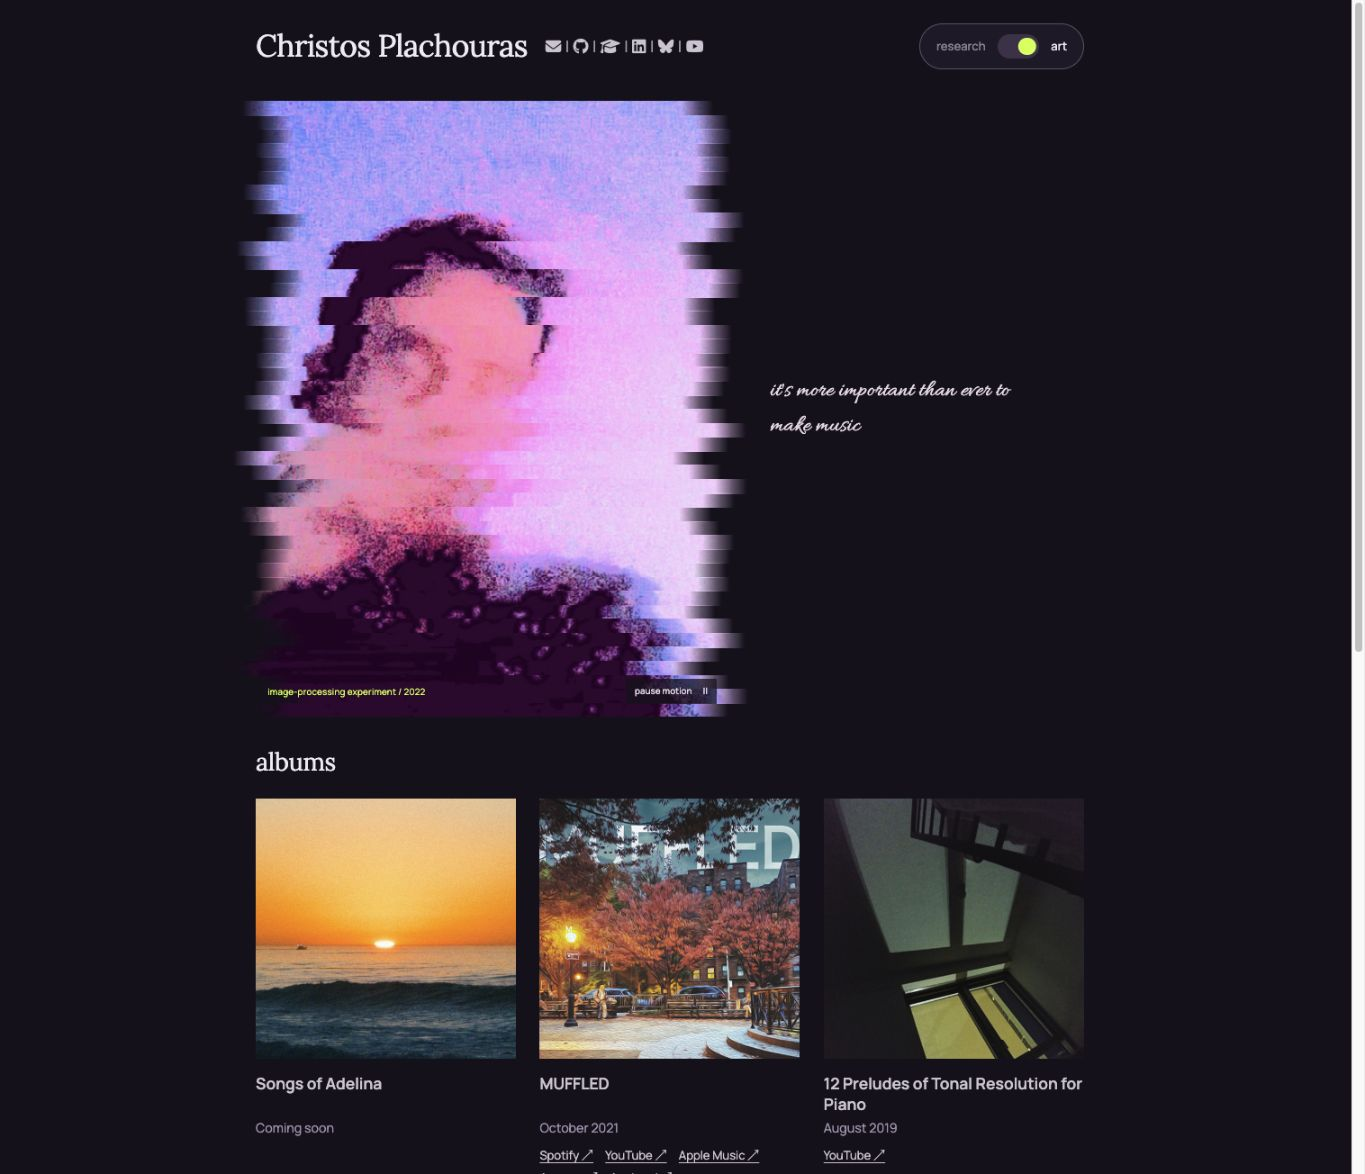
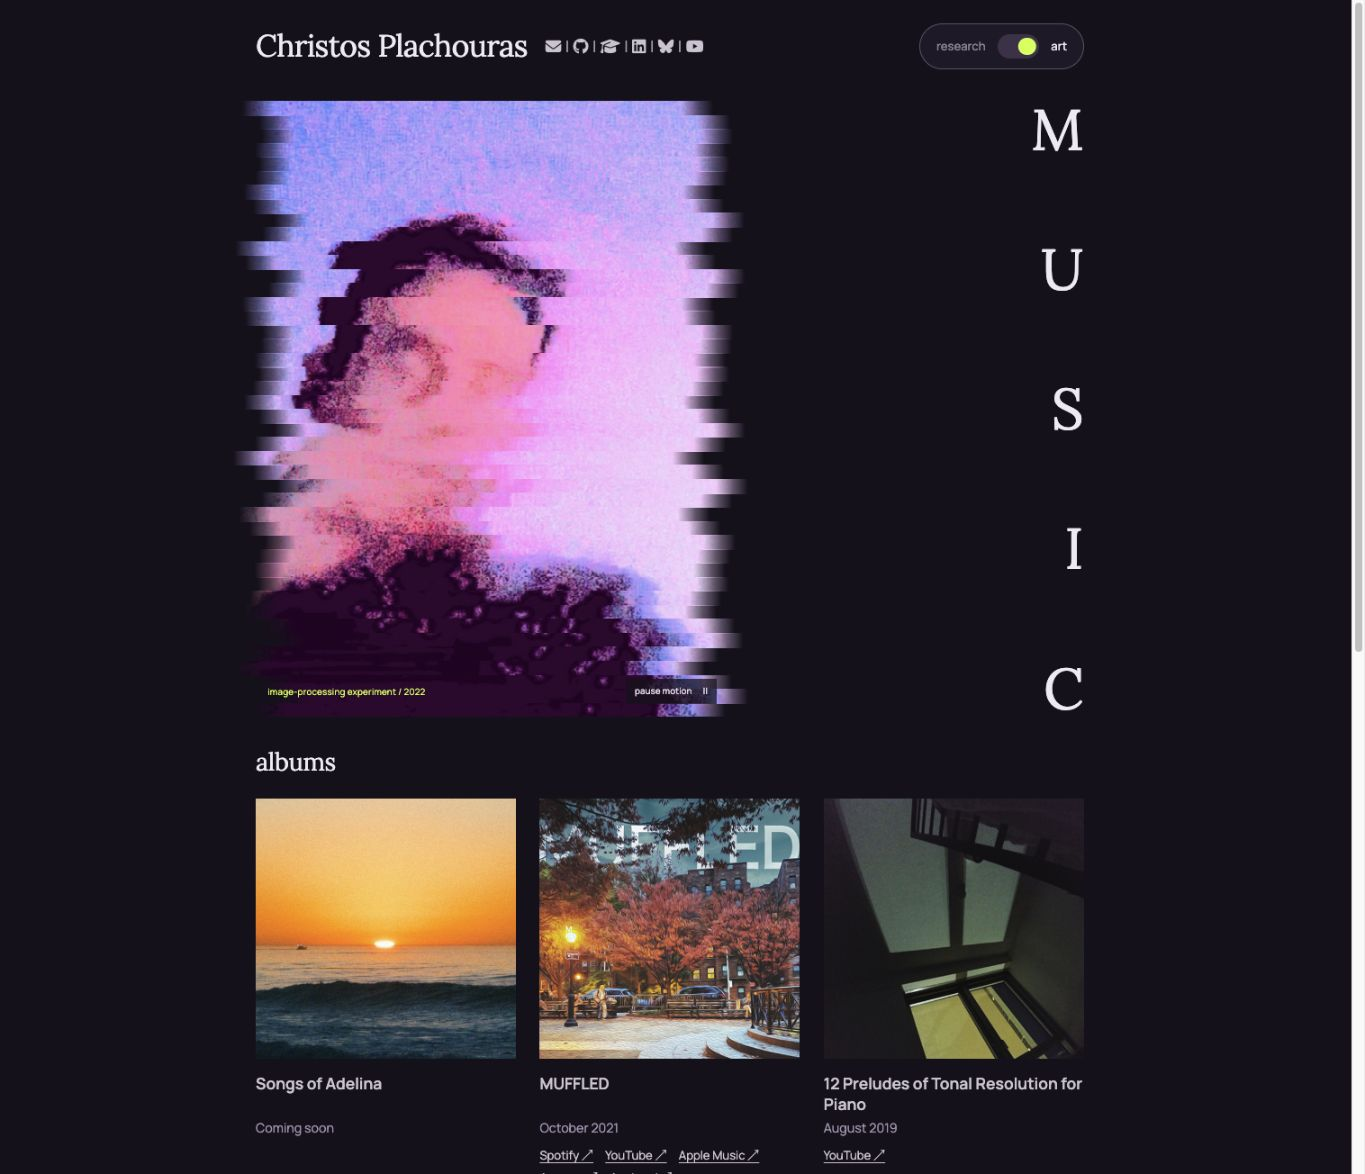
Replace art statement with vertical serif MUSIC

diff --git a/prototypes/assets/classic/portfolio.css b/prototypes/assets/classic/portfolio.css
@@ -1,4 +1,4 @@
-:root { --ink:#3a3a41; --heading:#27292b; --rule:#d2d7d9; --accent:#790000; --body:'Manrope',Arial,sans-serif; --display:'Lora',Georgia,serif; --statement:'Allura','Segoe Script',cursive; }
+:root { --ink:#3a3a41; --heading:#27292b; --rule:#d2d7d9; --accent:#790000; --body:'Manrope',Arial,sans-serif; --display:'Lora',Georgia,serif; }
 * { box-sizing:border-box; }
 html { scroll-behavior:auto; }
 body { margin:0; background:#fff; color:var(--ink); font-family:var(--body); font-size:15px; font-weight:400; line-height:1.55; }
@@ -89,10 +89,9 @@ body[data-mode=art] a:focus-visible,body[data-mode=art] button:focus-visible { o
 body[data-mode=art] .portrait-panel { width:calc(100% + var(--spill) * 2); height:100%; margin-left:calc(-1 * var(--spill)); padding:0; border:0; }
 body[data-mode=art] #portrait { width:100%; height:100%; }
 body[data-mode=art] #portrait-fallback { left:var(--spill); top:0; width:calc(100% - var(--spill) * 2); height:100%; transform:none; object-fit:contain; mask-image:linear-gradient(to right,transparent,#000 7%,#000 93%,transparent); }
-.art-statement { max-width:12em; font-family:var(--statement); font-size:24px; font-weight:400; line-height:1.5; letter-spacing:0; color:#e8dce7; }
-.art-statement span { white-space:nowrap; }
-body[data-crossing=true][data-mode=art] .art-statement { animation:statement-arrive 1050ms ease both; }
-@keyframes statement-arrive { 0%,35% { opacity:0; transform:translateY(6px); } 100% { opacity:1; transform:none; } }
+.art-word { display:flex; flex-direction:column; justify-content:space-between; align-items:flex-end; align-self:stretch; text-align:right; font-family:var(--display); font-size:58px; font-weight:400; line-height:1; color:var(--heading); }
+body[data-crossing=true][data-mode=art] .art-word { animation:word-arrive 1050ms ease both; }
+@keyframes word-arrive { 0%,35% { opacity:0; } 100% { opacity:1; } }
 .stage-caption { position:absolute; left:12px; bottom:18px; font-family:var(--body); font-size:9px; color:#d9ff60; letter-spacing:.2px; }
 #motion-toggle { position:absolute; z-index:3; right:calc(var(--spill) + 10px); bottom:13px; border:0; background:#15101dba; color:#e5dde9; font-family:var(--body); font-size:9px; font-weight:500; padding:6px 9px; }
 #motion-toggle span { margin-left:9px; }
@@ -115,7 +114,7 @@ body[data-mode=art] footer { color:#9f94aa; }
   #portrait-fallback { left:17px; }
   .album-grid { gap:20px; }
   .art-stage { --spill:24px; gap:30px; }
-  .art-statement { font-size:23px; }
+  .art-word { font-size:44px; }
   .album h3 { font-size:15px; }
 }
 @media(max-width:760px) {
@@ -155,7 +154,7 @@ body[data-mode=art] footer { color:#9f94aa; }
   .music-entry p { font-size:12px; }
   .art-stage { --spill:16px; grid-template-columns:1fr; gap:24px; }
   .art-portrait { max-width:460px; }
-  .art-statement { max-width:13em; font-size:21px; padding:0 4px 8px; }
+  .art-word { display:none; }
   body[data-mode=art] .portrait-panel { margin-top:0; }
   .stage-caption { left:10px; bottom:46px; font-size:8px; }
   #motion-toggle { right:calc(var(--spill) + 7px); bottom:13px; font-size:8px; }
@@ -170,5 +169,5 @@ body[data-mode=art] footer { color:#9f94aa; }
 }
 @media(prefers-reduced-motion:reduce) {
   body[data-crossing=true],body[data-crossing=true] .site-header,body[data-crossing=true] .switch-knob { transition:none; }
-  body[data-crossing=true] .art-statement { animation:none; }
+  body[data-crossing=true] .art-word { animation:none; }
 }

diff --git a/prototypes/instrument/index.html b/prototypes/instrument/index.html
@@ -5,7 +5,7 @@
   <title>Christos Plachouras — Research & Art</title>
   <meta name="description" content="Research in audio and music understanding, compositions, performances, and writing by Christos Plachouras.">
   <link rel="preconnect" href="https://fonts.googleapis.com"><link rel="preconnect" href="https://fonts.gstatic.com" crossorigin>
-  <link href="https://fonts.googleapis.com/css2?family=Allura&family=Lora:wght@400;500&family=Manrope:wght@400;500;600&display=swap" rel="stylesheet">
+  <link href="https://fonts.googleapis.com/css2?family=Lora:wght@400;500&family=Manrope:wght@400;500;600&display=swap" rel="stylesheet">
   <link rel="stylesheet" href="https://cdnjs.cloudflare.com/ajax/libs/font-awesome/6.7.1/css/all.min.css">
   <link rel="stylesheet" href="../assets/classic/portfolio.css">
   <script src="../assets/classic/content.js" defer></script><script src="../assets/classic/portfolio.js" defer></script><script src="../assets/classic/portrait-switch.js" defer></script>
@@ -28,7 +28,7 @@
     </header>
     <main id="main" tabindex="-1">
       <section class="intro" id="intro" aria-labelledby="intro-heading"><div class="intro-copy"><h2 id="intro-heading">hi!</h2><p>I'm a researcher and musician, particularly focused on computational methods for audio and music understanding, processing, and identification. You can find some of the things I'm up to on this website.</p><p>Or, here's <a class="text-link" href="https://chrispla.github.io/CV_Christos_Plachouras_Summer_2026.pdf" target="_blank" rel="noopener noreferrer">my CV <i class="fa-regular fa-file-lines" aria-hidden="true"></i></a></p></div><div id="research-portrait-slot"><figure class="portrait-panel" id="portrait-panel"><canvas id="portrait" role="img" aria-label="Portrait of Christos Plachouras"></canvas><img id="portrait-fallback" src="../assets/classic/real-profile.png" alt="Portrait of Christos Plachouras"><button id="motion-toggle" type="button" hidden aria-pressed="false">pause motion <span aria-hidden="true">Ⅱ</span></button></figure></div></section>
-      <section class="art-stage" id="art-stage" aria-label="Animated corrupted portrait" hidden><div class="art-portrait"><div id="art-portrait-slot"></div><p class="stage-caption">image-processing experiment / 2022</p></div><p class="art-statement">it's more important than ever to <span>make music</span></p></section>
+      <section class="art-stage" id="art-stage" aria-label="Animated corrupted portrait" hidden><div class="art-portrait"><div id="art-portrait-slot"></div><p class="stage-caption">image-processing experiment / 2022</p></div><p class="art-word"><span class="sr-only">MUSIC</span><span aria-hidden="true">M</span><span aria-hidden="true">U</span><span aria-hidden="true">S</span><span aria-hidden="true">I</span><span aria-hidden="true">C</span></p></section>
       <div id="research-panel" role="region" aria-label="Research"><section id="background" class="content-section"></section><section id="research" class="content-section"></section></div>
       <div id="art-panel" role="region" aria-label="Art" hidden>
         <section class="content-section albums-section" id="albums"><h2>albums</h2><div class="album-grid">

diff --git a/prototypes/README.md b/prototypes/README.md
@@ -6,9 +6,9 @@ Three standalone directions for Christos Plachouras's website. Open `index.html`
 
 - **Signal / Noise:** editorial research, an immersive pink/purple image field, and a circular transition.
 - **Out of Order:** a typeset reading room, floating gallery fragments, and a folding shutter.
-- **Research / Art (revised Soft Errors):** the current site's compact research scale, full intro/background/research, and a prominent toggle. The portrait expands and blends into the full-height art image, with moving slices that fade at their ends. The line “it's more important than ever to make music” sits alongside the portrait on desktop and below it on mobile. Art has a still dark background and fixed 40% portrait displacement. Large album covers come first, including the sunset cover for **Songs of Adelina — Coming soon**, followed by compositions, performances, and writing. Section navigation links are omitted.
+- **Research / Art (revised Soft Errors):** the current site's compact research scale, full intro/background/research, and a prominent toggle. The portrait expands and blends into the full-height art image, with moving slices that fade at their ends. Uppercase “MUSIC” runs vertically down the right edge beside the portrait on desktop; it is hidden on mobile. Art has a still dark background and fixed 40% portrait displacement. Large album covers come first, including the sunset cover for **Songs of Adelina — Coming soon**, followed by compositions, performances, and writing. Section navigation links are omitted.
 
-The revised direction uses Lora for headings, Manrope for text and controls, and a small Allura calligraphic art statement.
+The revised direction uses Lora for headings and the vertical MUSIC lettering, with Manrope for text and controls.
 
 The research views have no continuous animation or canvas loop. Art motion has a pause control and respects `prefers-reduced-motion`. Canvas work also stops when the tab is hidden. Artwork and research links come from the existing website. The source portrait is the user's supplied corrupted image; its pixels are preserved.
 
